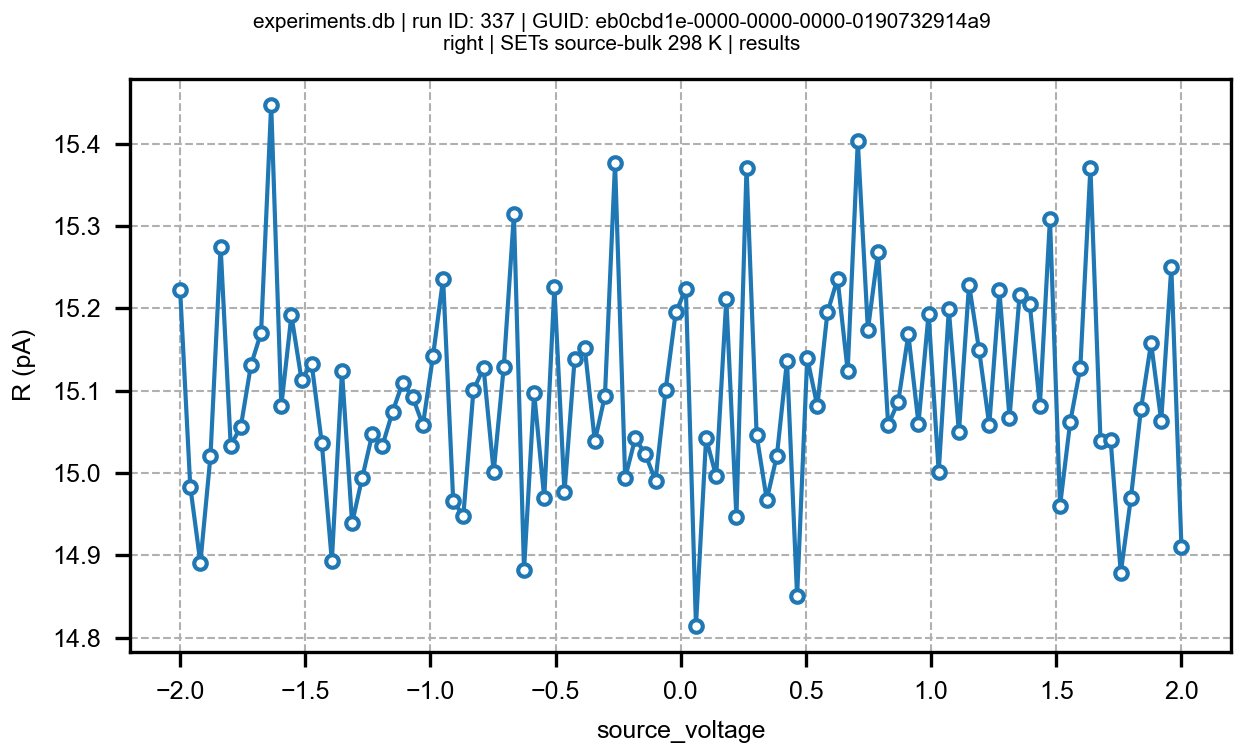
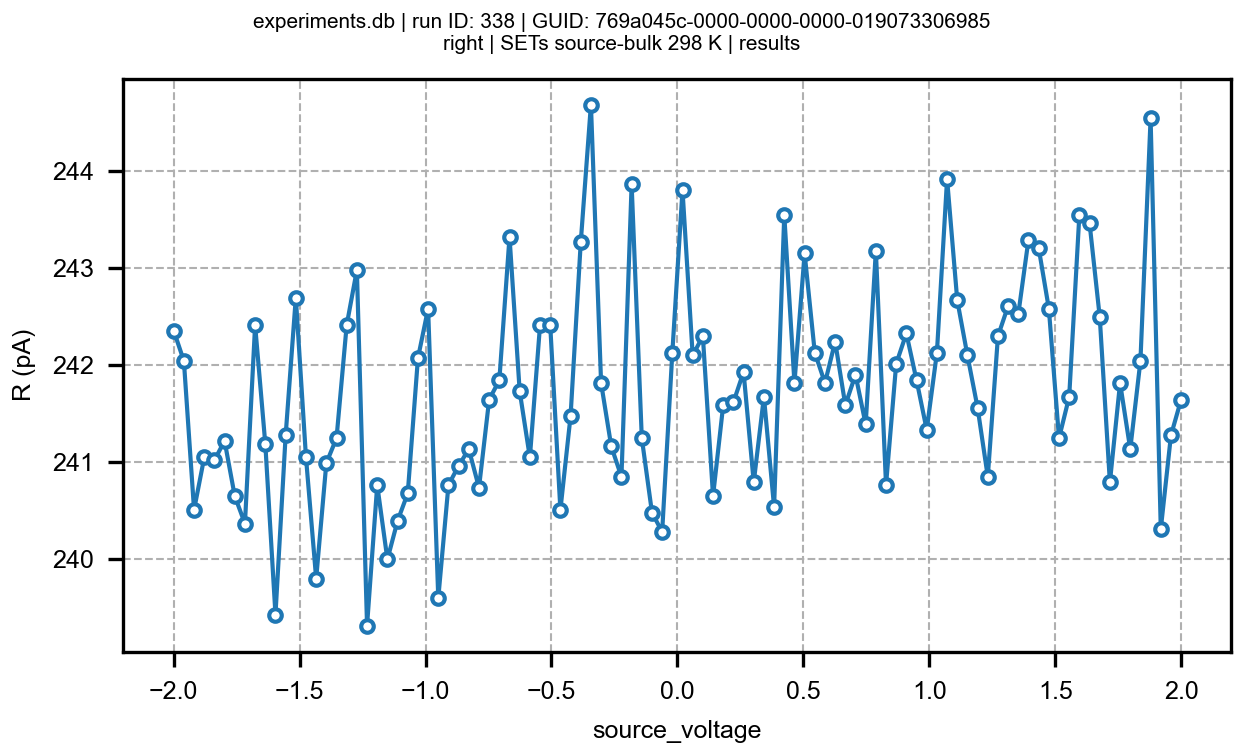
realast02

diff --git a/Main_oscill.py b/Main_oscill.py
@@ -105,10 +105,10 @@ sensitivity_curr = {
     }
 
 sensitivity_list = list(sensitivity_curr.keys())
-i = 13
+i = 16
 x = []
 y  = []
-li.sensitivity(50e-12)
+li.sensitivity(500e-12)
 
 #####################################################
 
